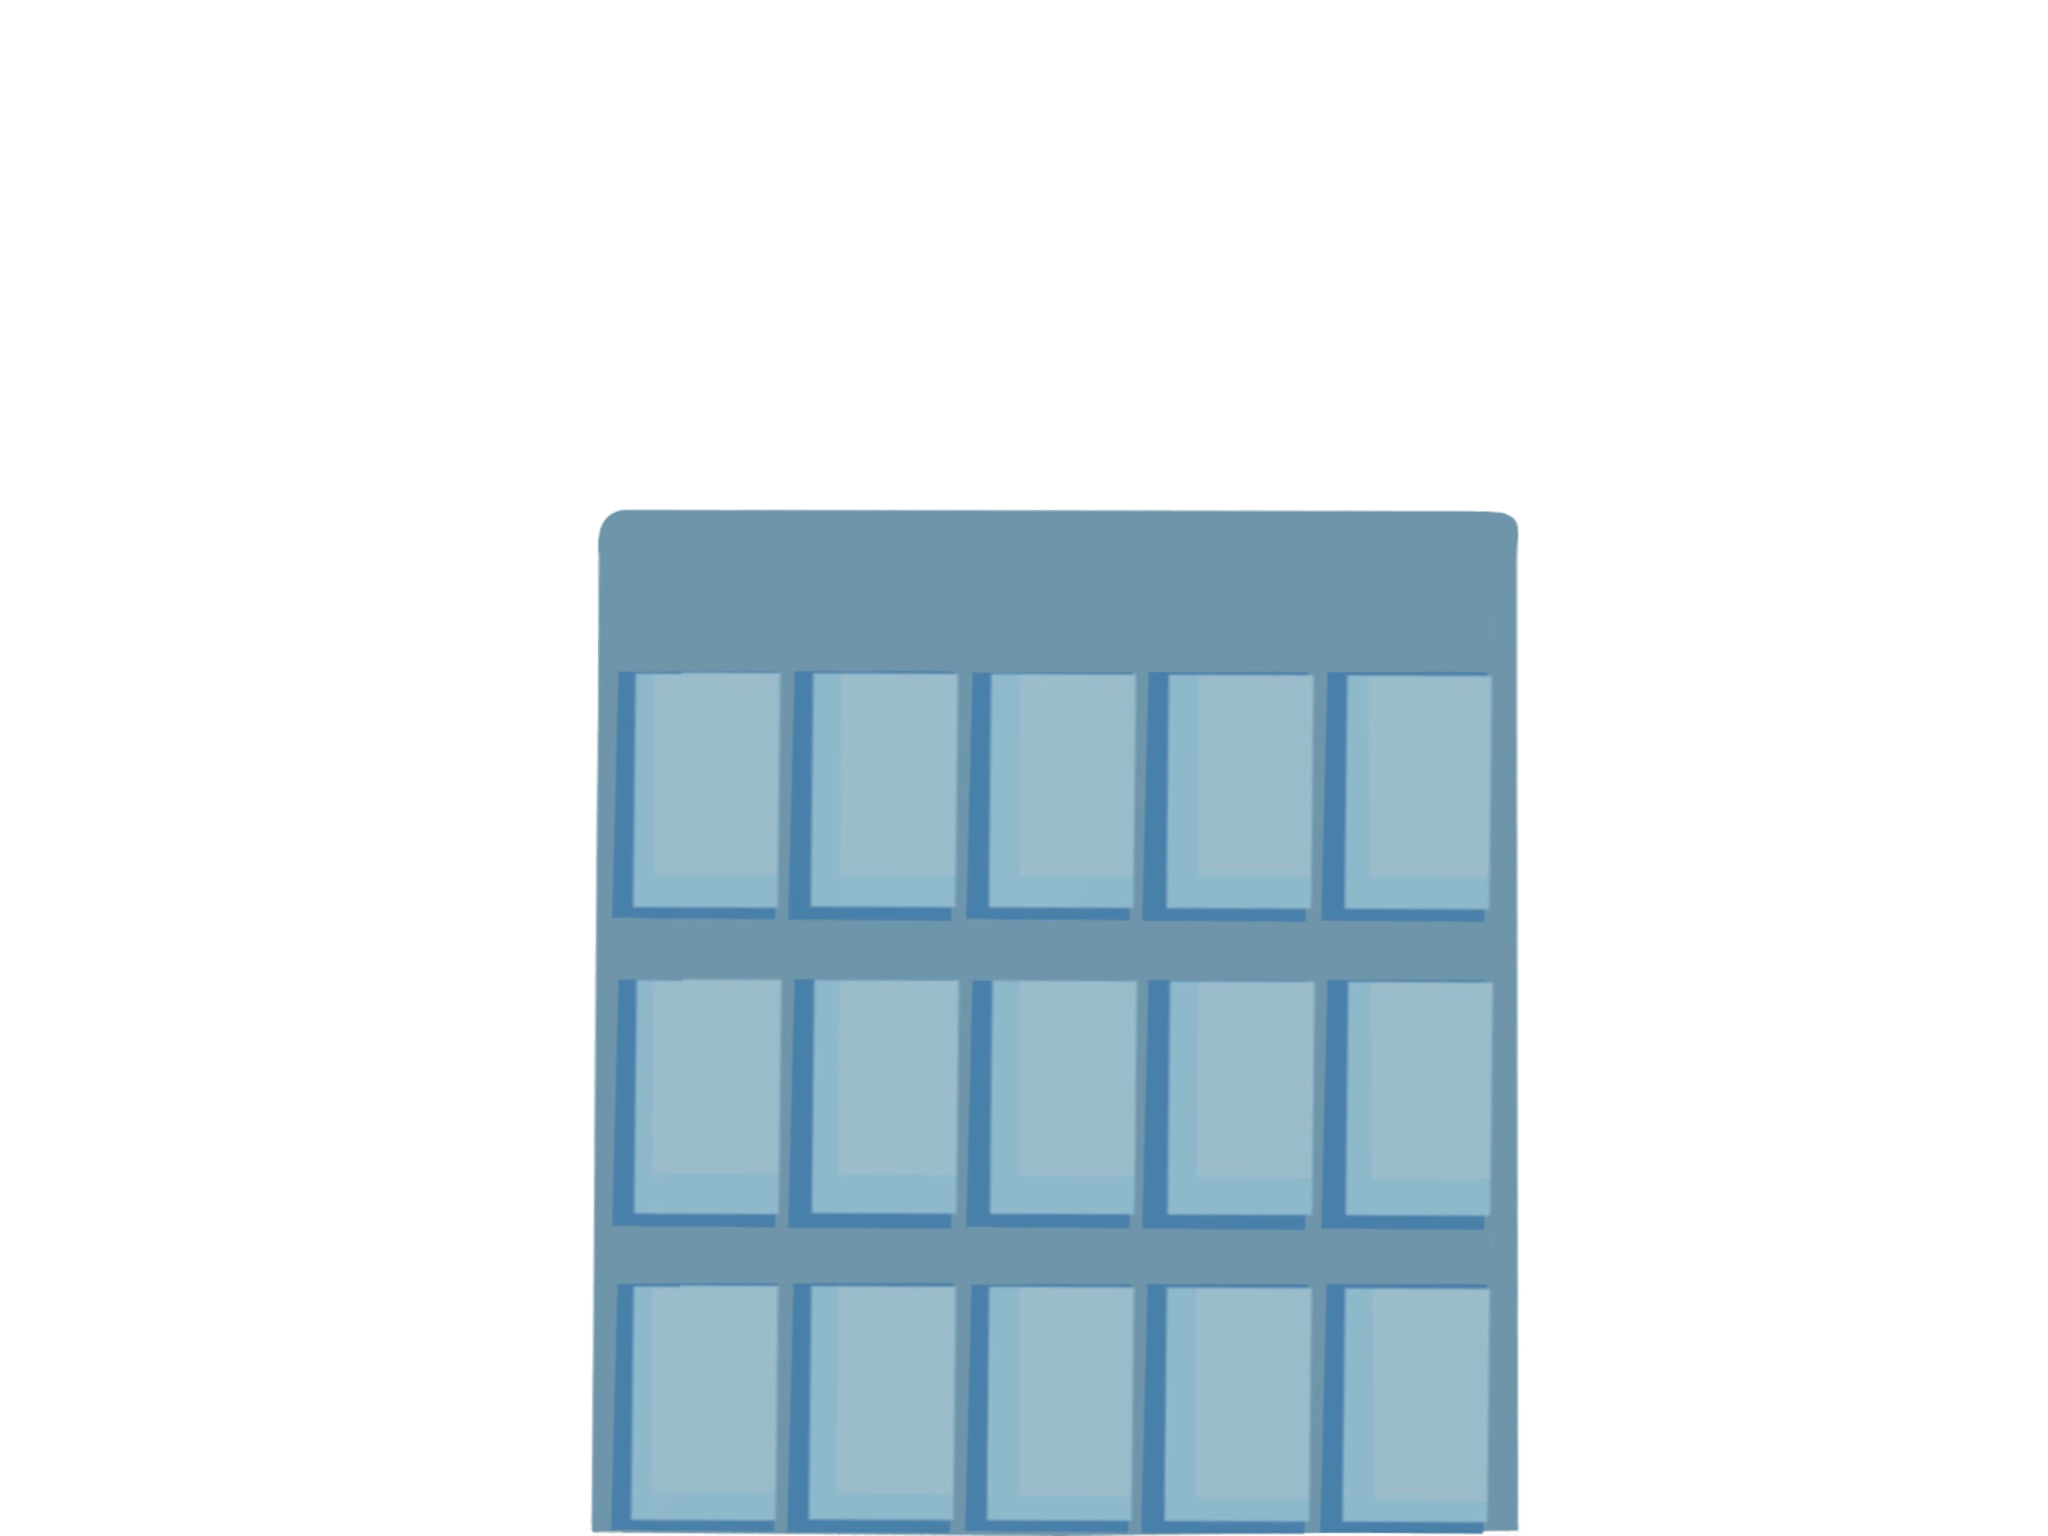
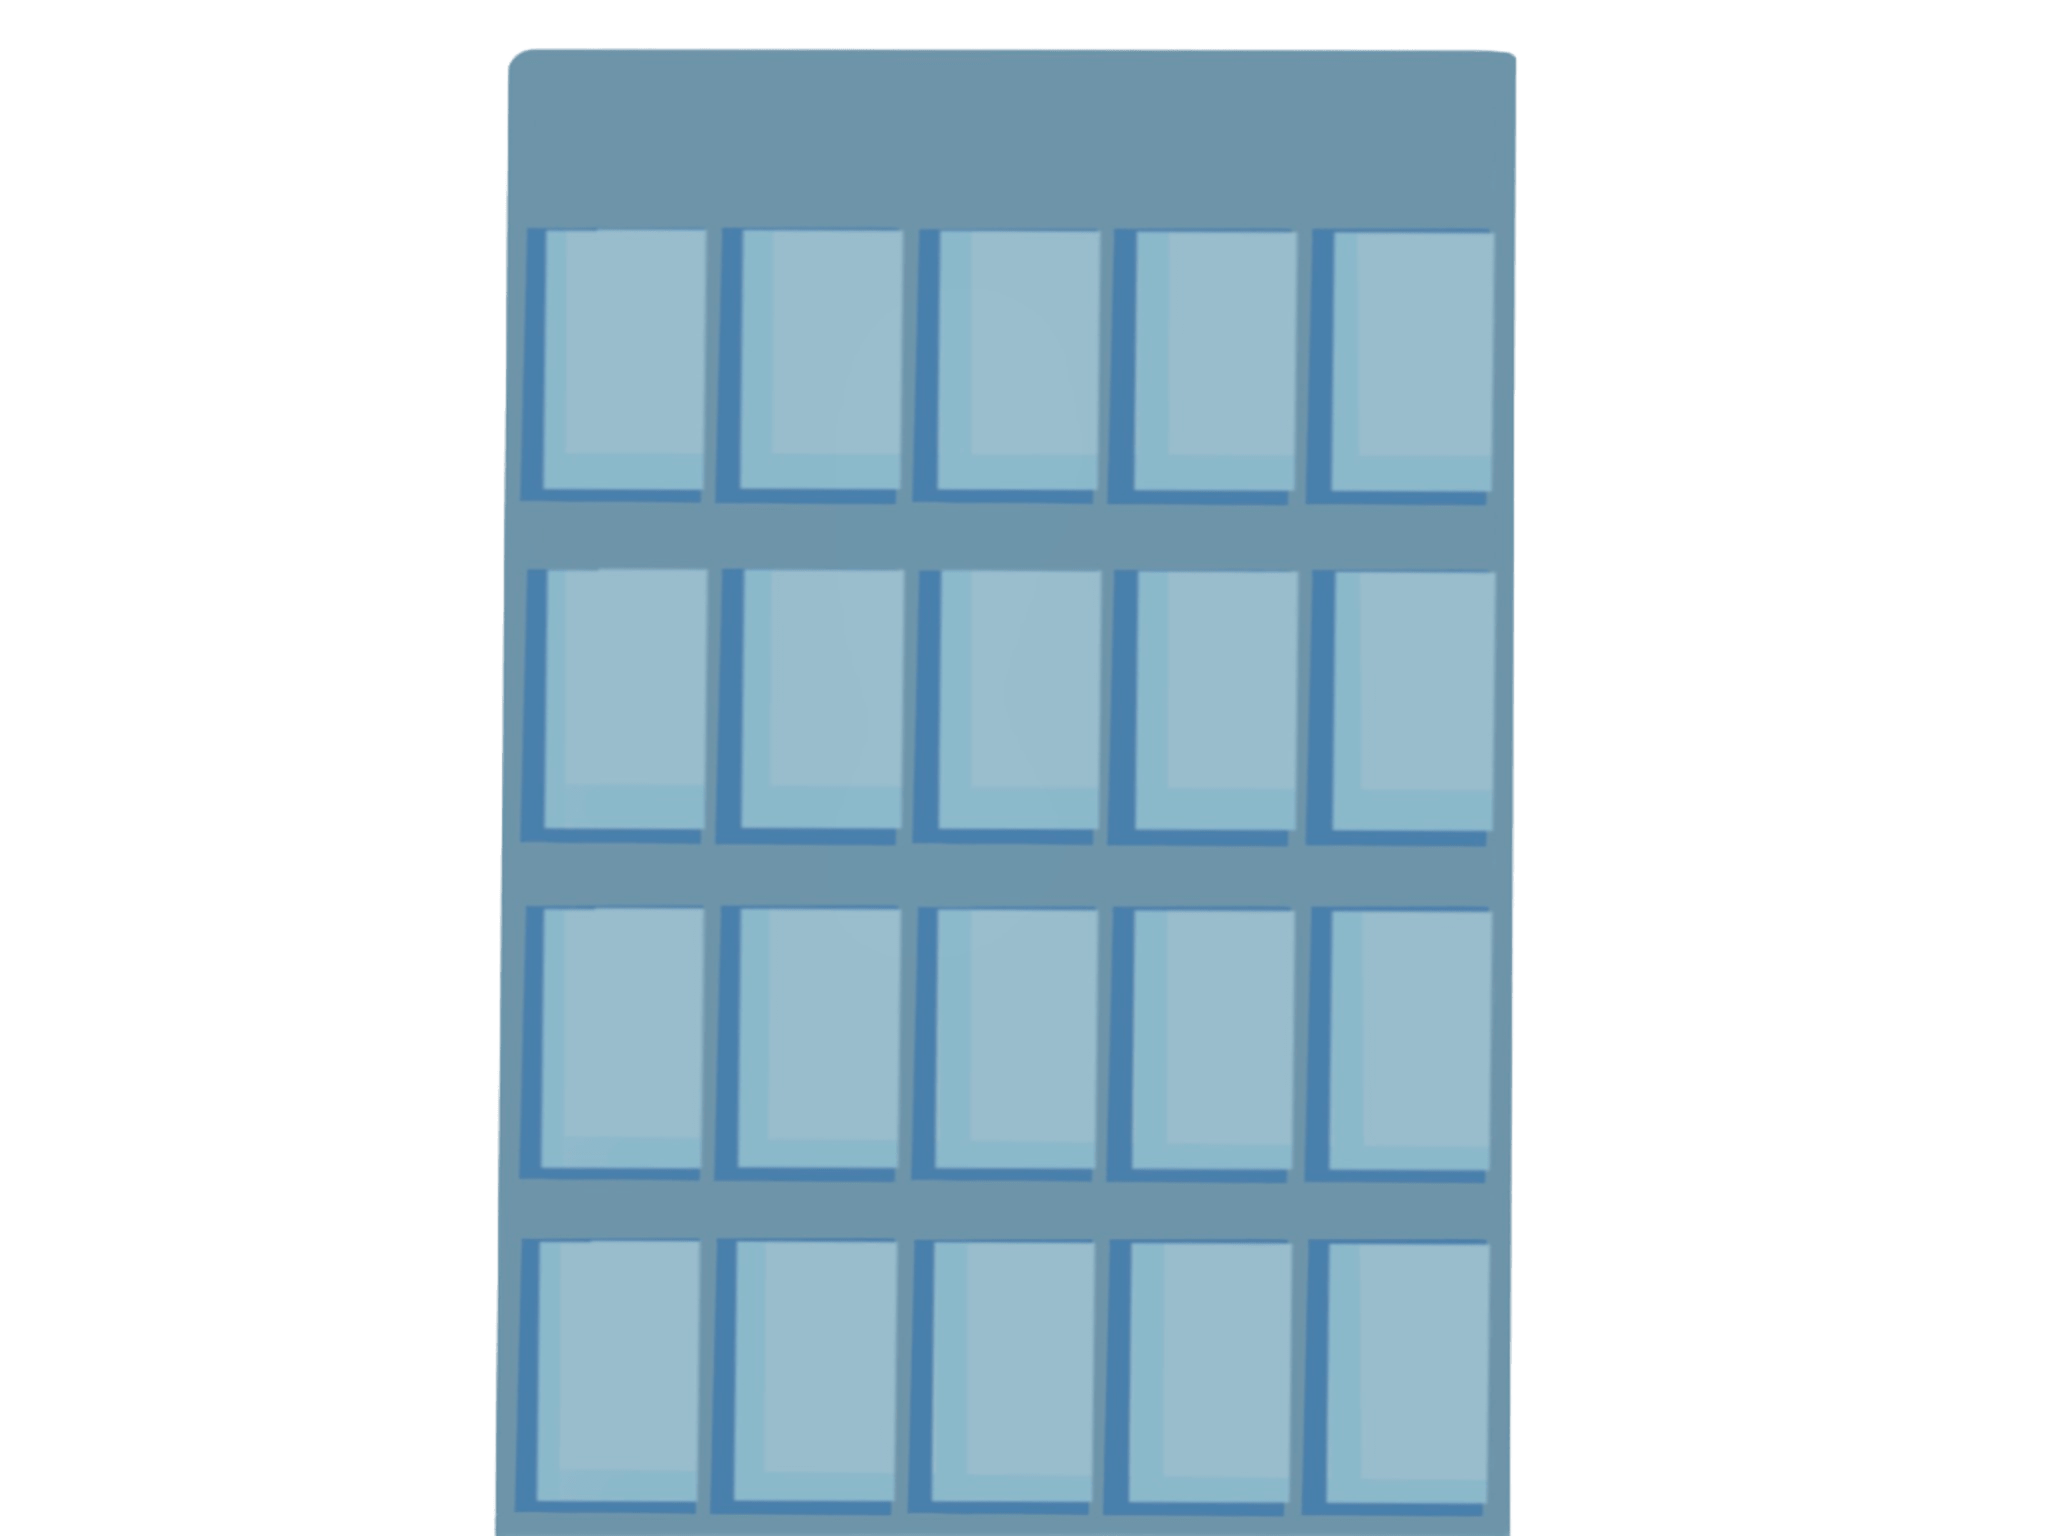
cambios en el layout del edificio

diff --git a/style.css b/style.css
@@ -56,15 +56,15 @@ background-position: center;
 pointer-events: none;
 }
 
-/* Edificio (CON ZOOM) */
+/* Edificio (SIN ZOOM) */
 .bg-building{
 position: fixed;
 inset: 0;
 z-index: 1;
 transition: transform 0.2s ease;
-transform: translateY(50px) translateX(-50px);
+transform: translateY(120px) scale(0.6);
 display: flex;
-align-items: center;
+align-items: baseline;
 justify-content: center;
 scale: 0.60;
 }
@@ -75,7 +75,7 @@ position: fixed;
 inset: 0;
 z-index: 1;
 transition: transform 0.2 ease;
-transform: translateX(-50px) translateY(-105px) scale(1.17);
+transform: translateY(160px) scale(0.8);
 display: flex;
 align-items: center;
 justify-content: center;
